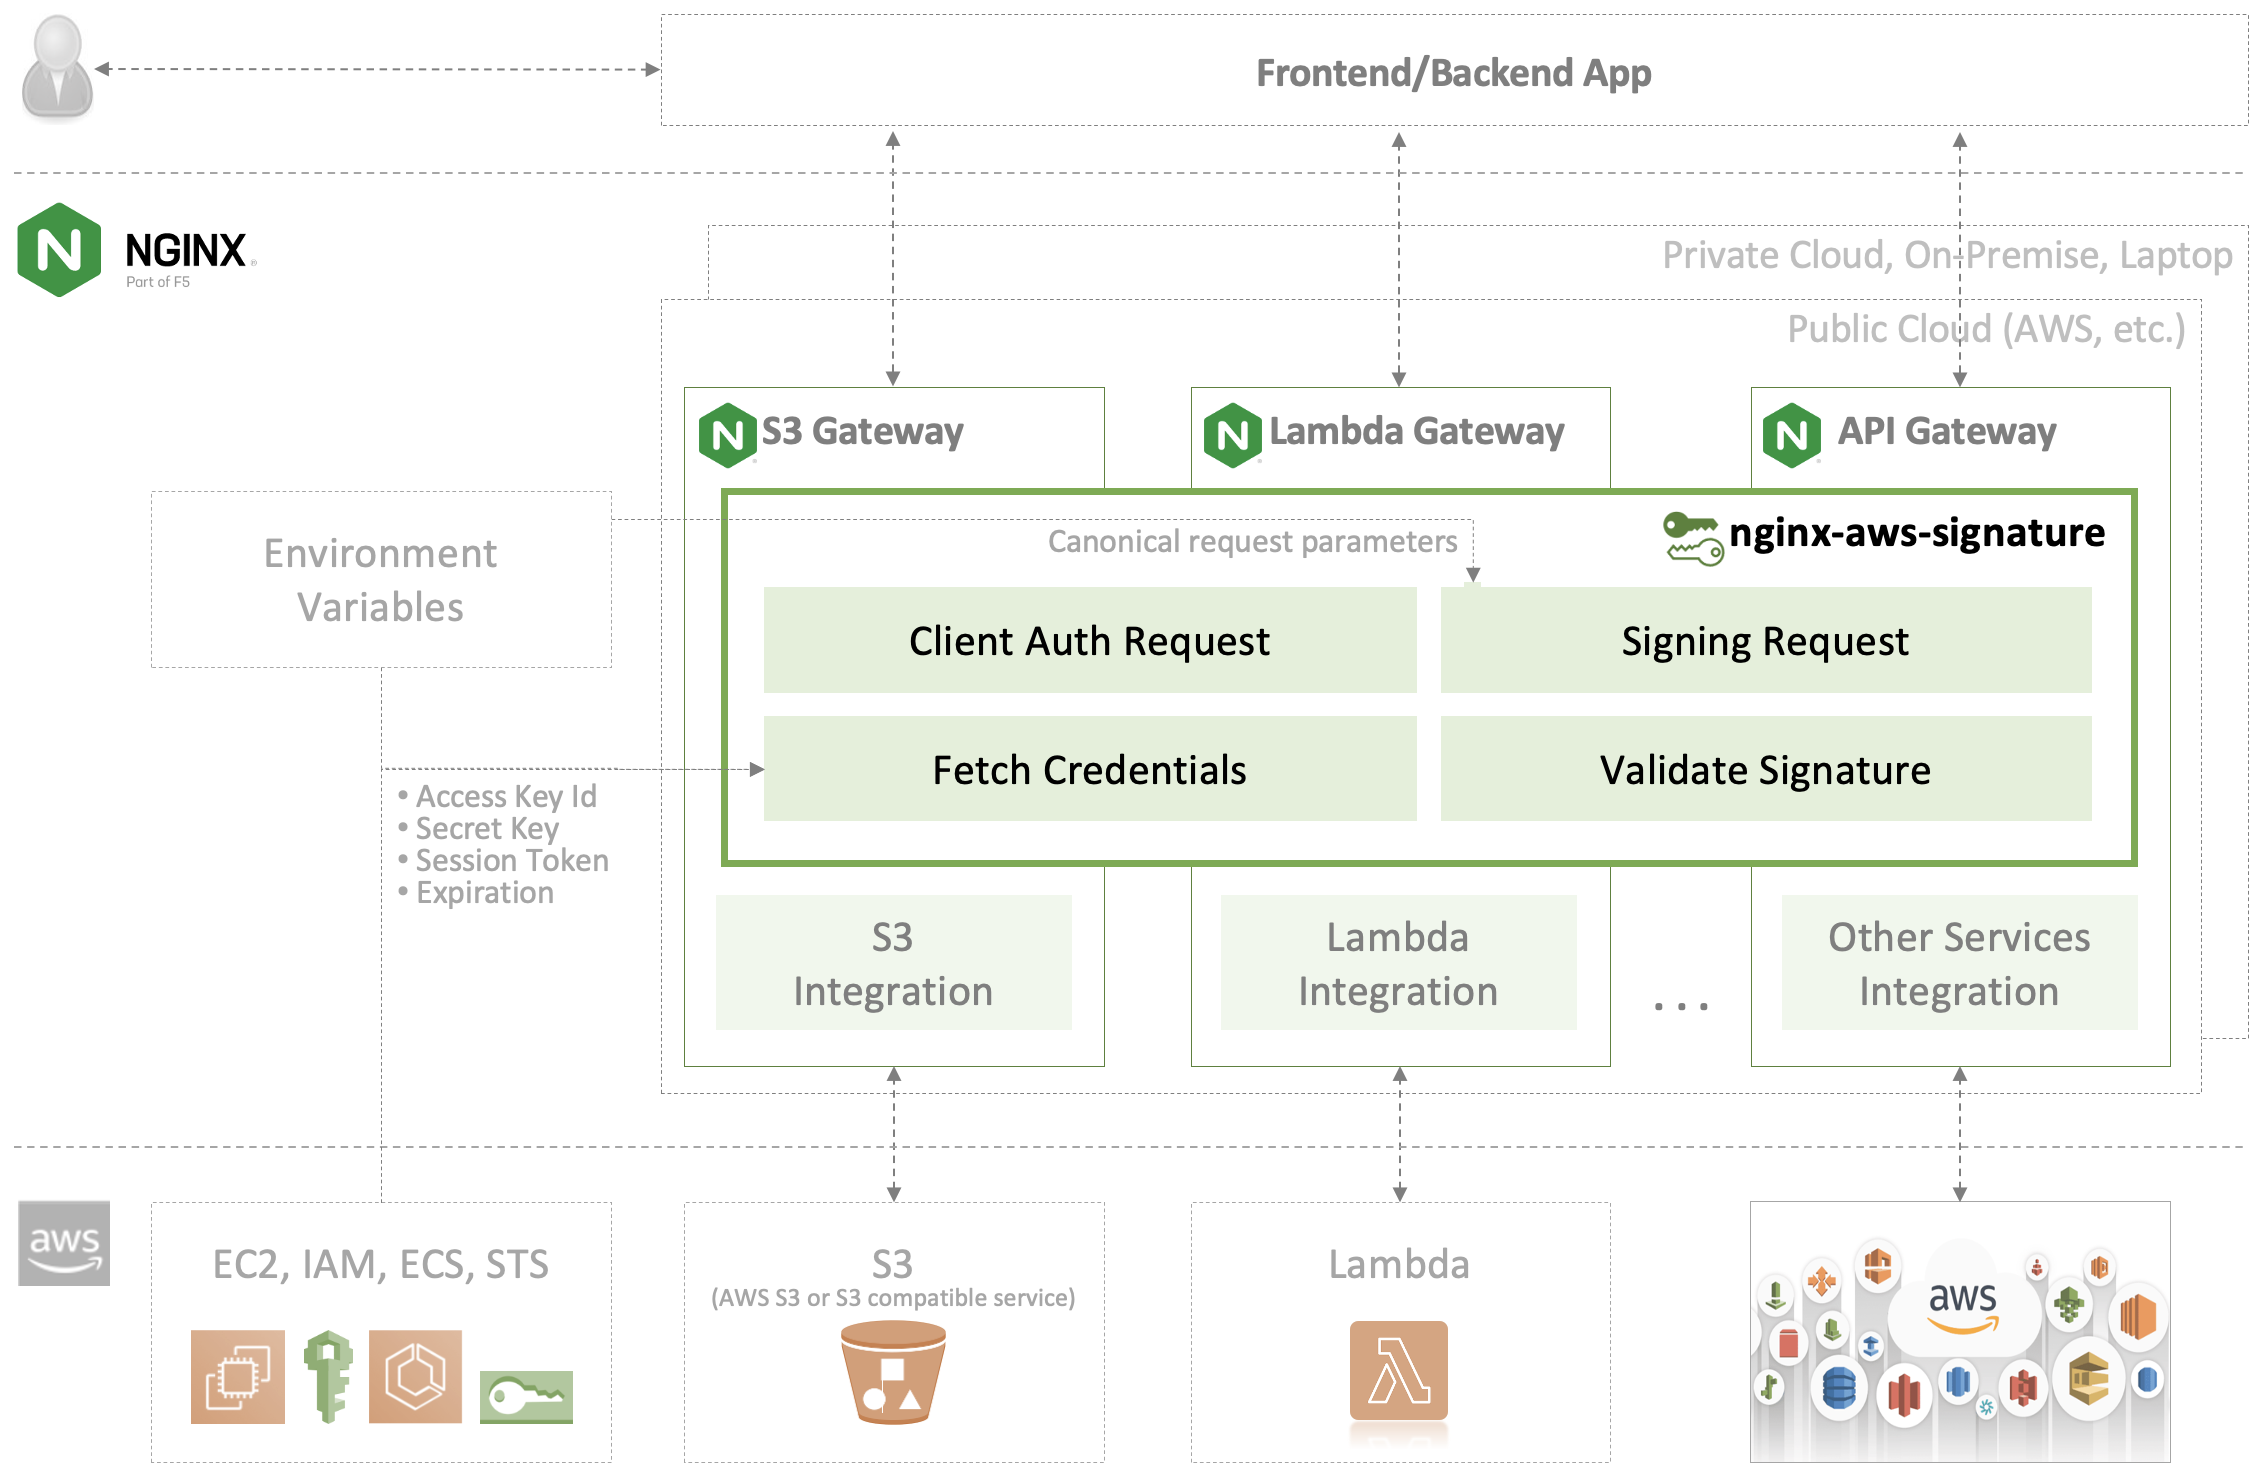
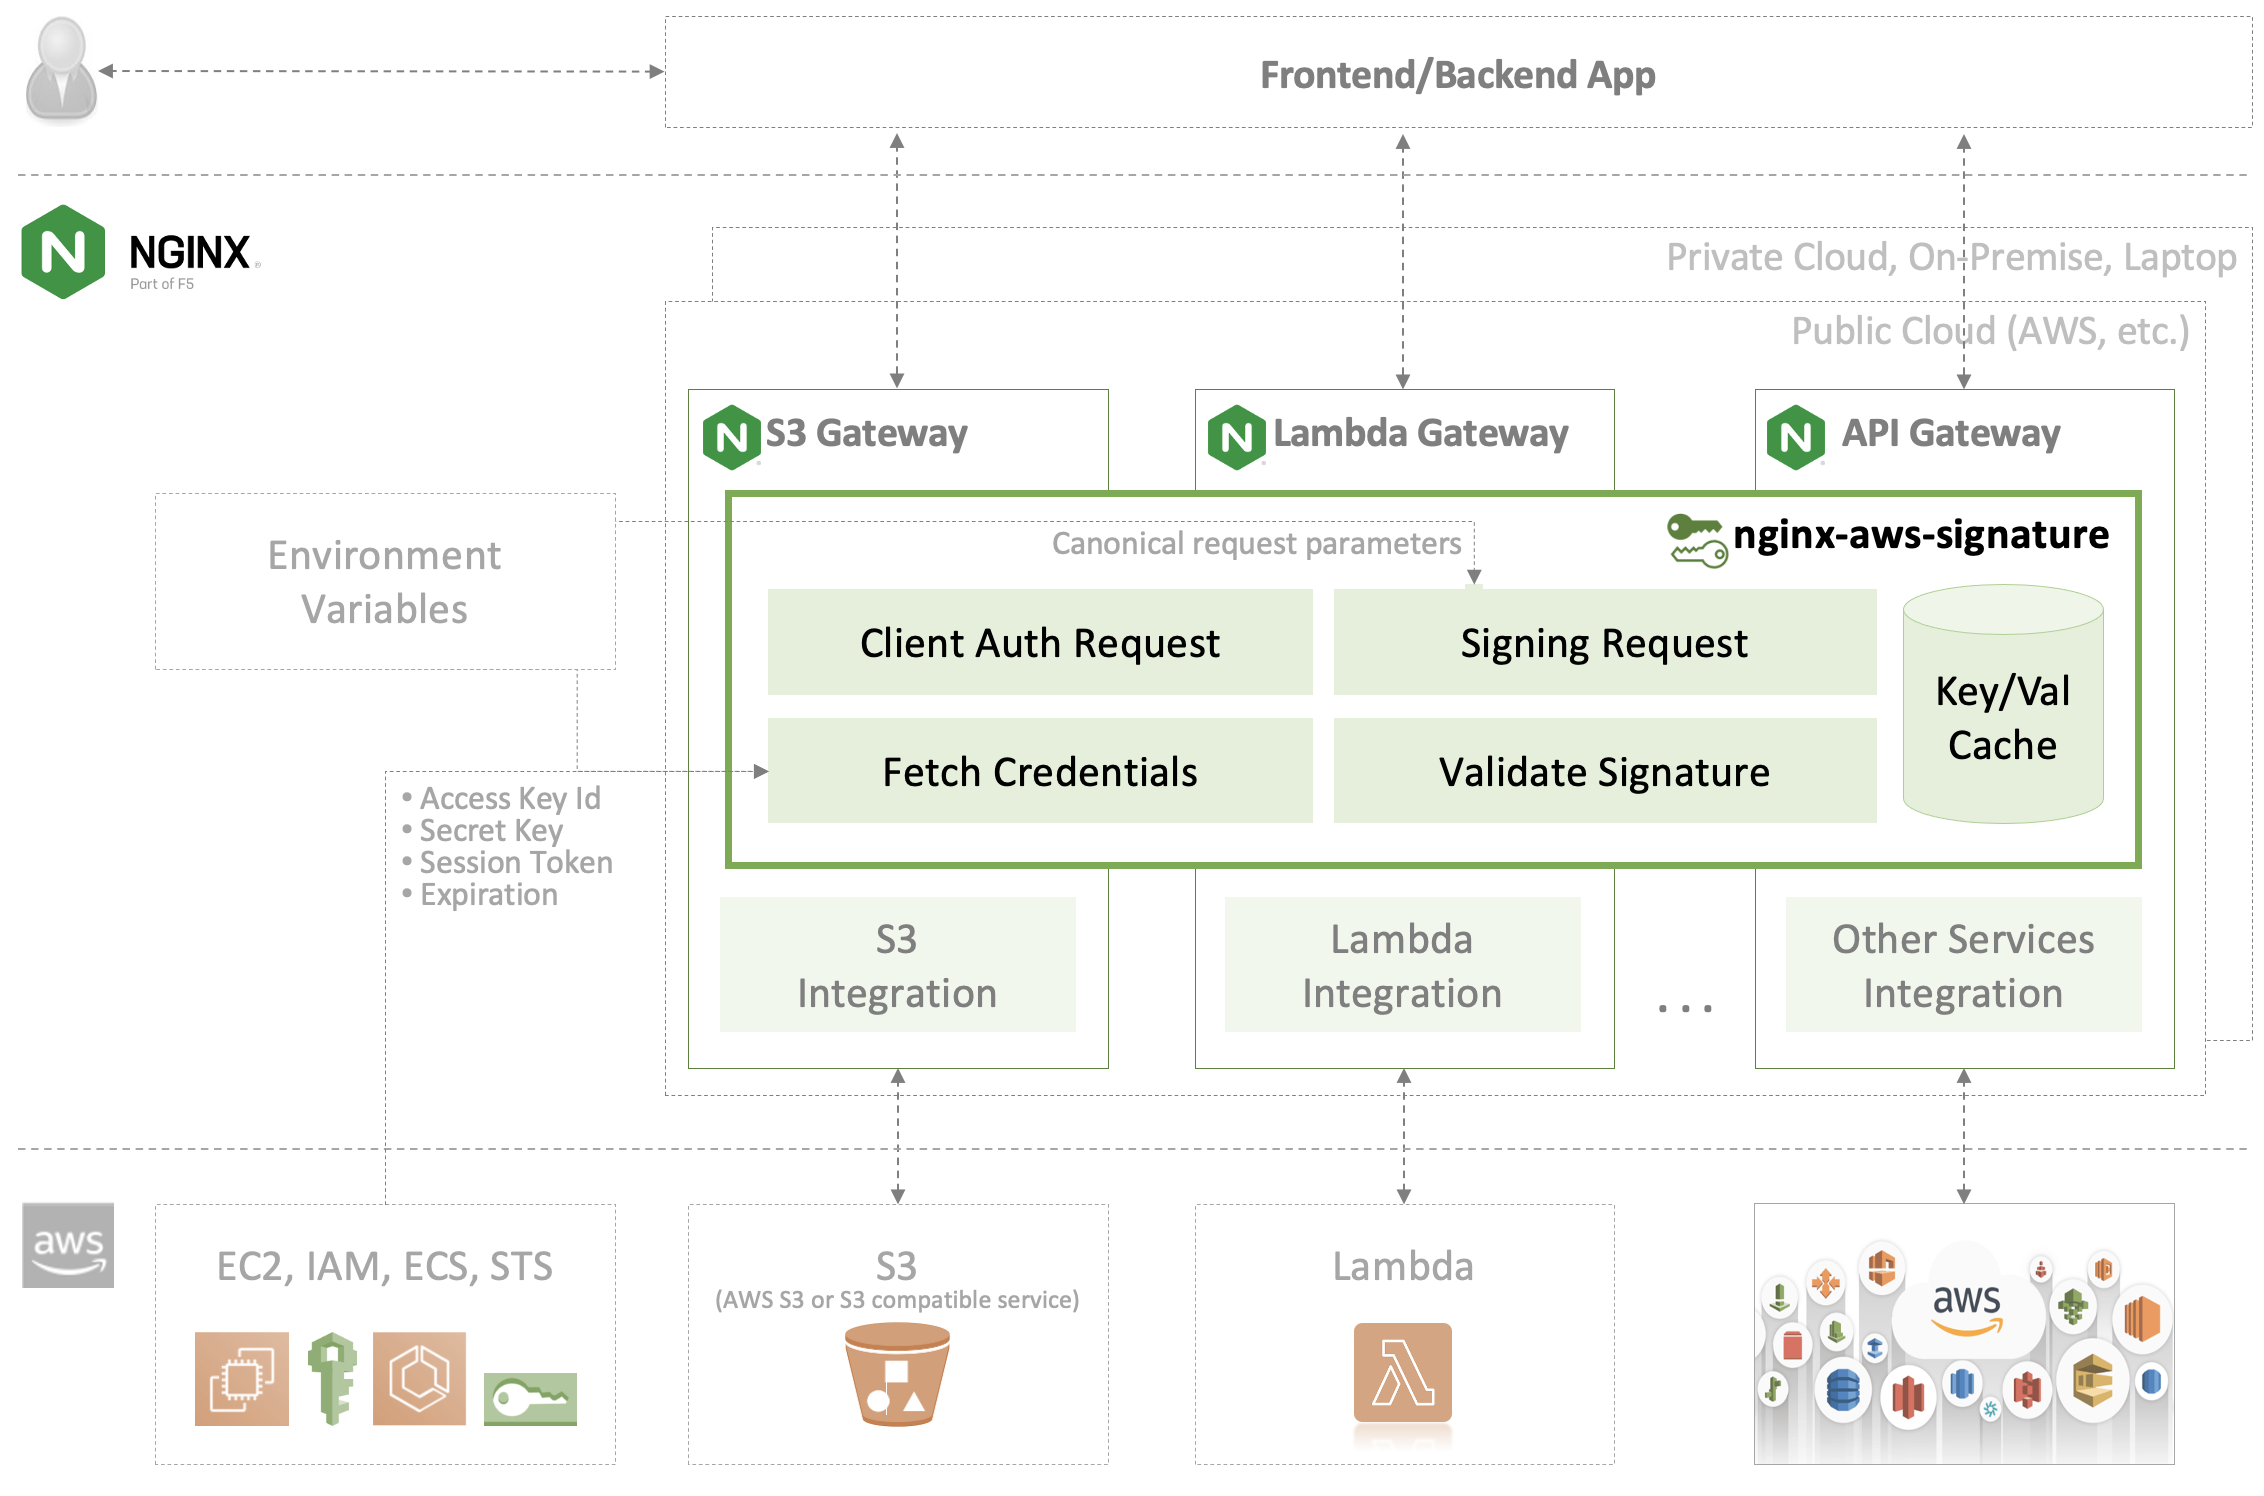
fix: diagram w/ key/val cache and acknowledgement

diff --git a/README.md b/README.md
@@ -16,6 +16,10 @@ TBD
 
 Please see the [contributing guide](https://github.com/nginxinc/nginx-aws-signature/blob/main/CONTRIBUTING.md) for guidelines on how to best contribute to this project.
 
+## Authors and acknowledgment
+
+This project was inspired the on the great work by [nginx-s3-gateway](https://github.com/nginxinc/nginx-s3-gateway) and [nginx-serverless](https://github.com/nginx-serverless).
+
 ## License
 
 [Apache License, Version 2.0](https://github.com/nginxinc/nginx-aws-signature/blob/main/LICENSE)
